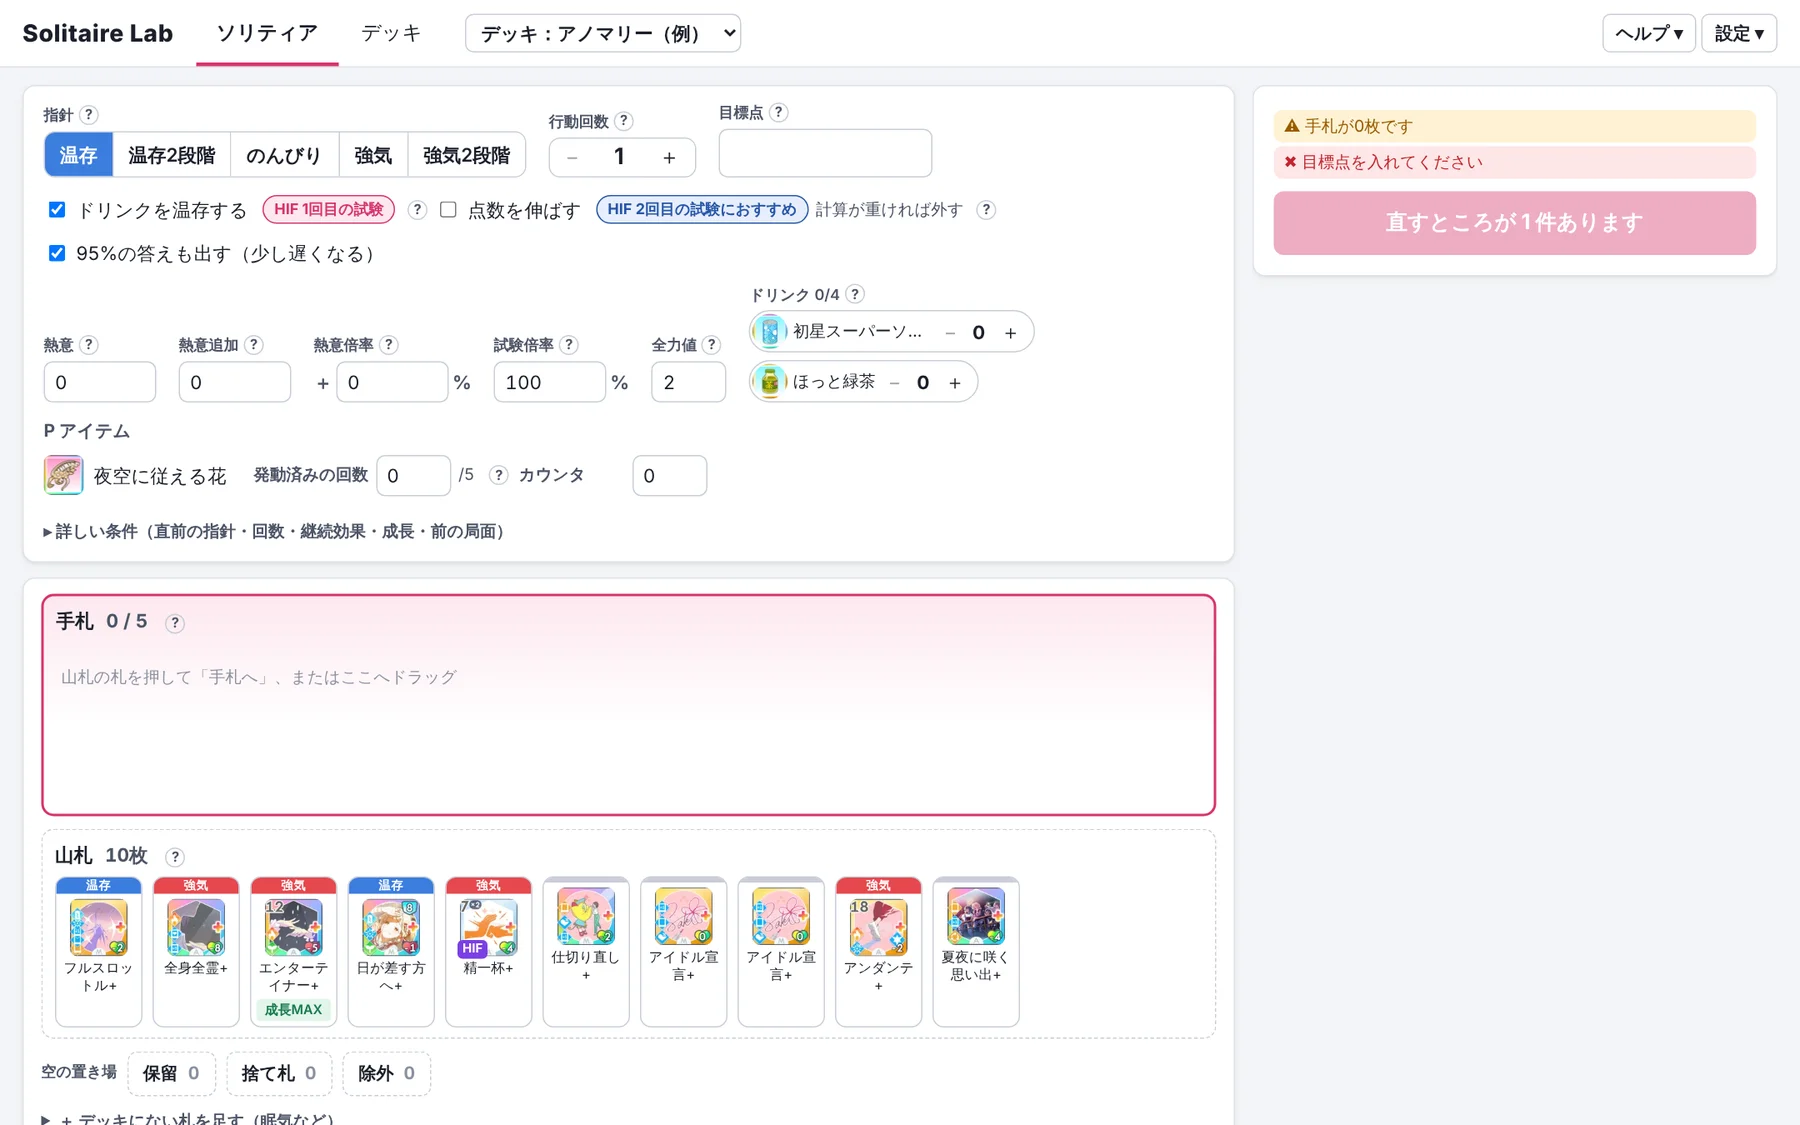
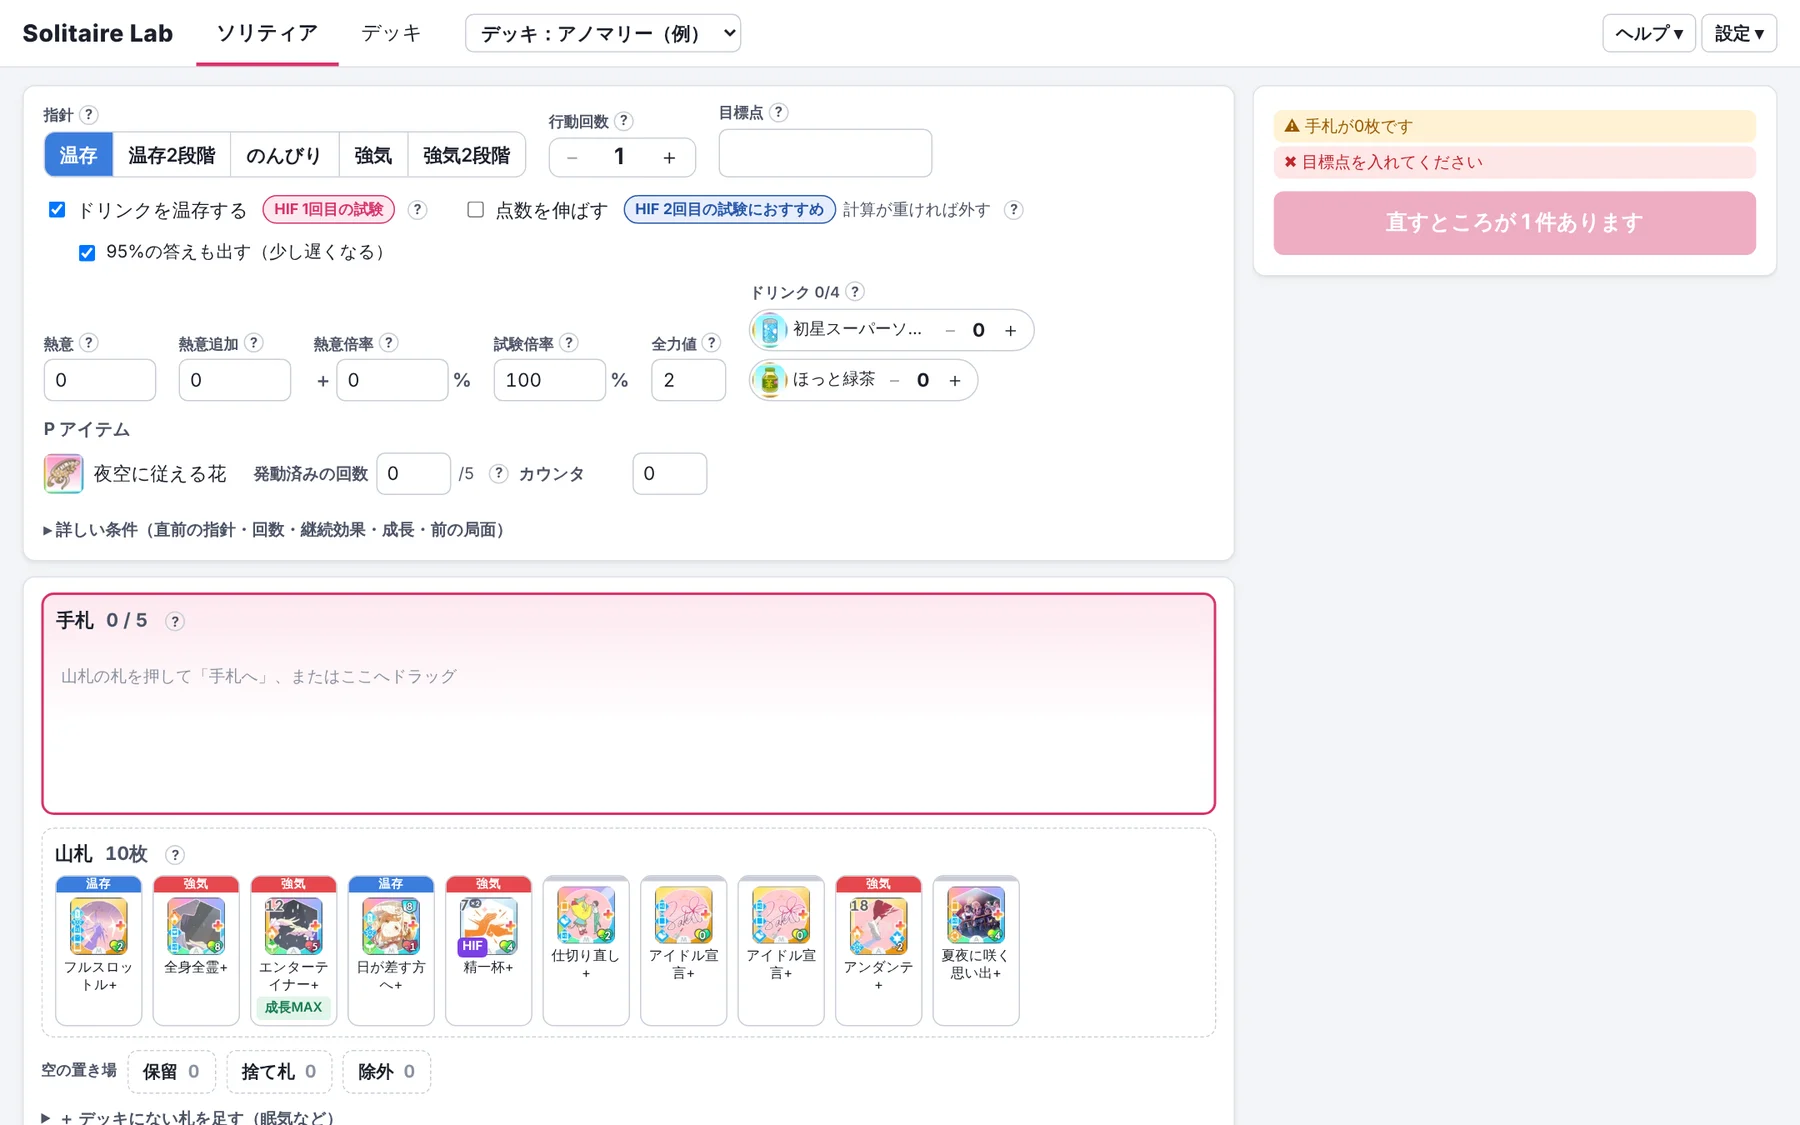
Solitaire Lab 1.14.7

diff --git a/js/turn.js b/js/turn.js
@@ -99,13 +99,11 @@ export function renderTurn(root, rerender) {
       h('div.stances', {}, h('span.sl', '指針', qtip('ゲームの画面の、今の指針。温存・強気の「2段階」は、指針の段階が2のとき')), h('div.seg', {}, STANCES.map(([v, t]) => h('button', {class: 'st ' + v + (p.stance === v ? ' on' : ''), onclick: () => setp('stance')(v)}, t)))),
       stepper('行動回数', 'cardUses', {min: 1, max: 20, tip: 'このターンに、まだ札を使える回数（ゲームの画面のスキルカード使用数）'}),
       field('目標点', 'target', {width: 9, cls: 'big', tip: 'このターンで届かせたい点数。プレイの途中から作った局面では、それまでに入った点を引いた値'})),
-    // ドリンクを温存する（HIF の1回目の試験）。既定は温存しない（届く確率 → 手数）。1.11.0、利用者の決定
-    h('div.lastexam', {}, h('label.f', {}, h('input', {type: 'checkbox', checked: !!p.saveDrinks && !p.beyondGoal, onchange: e => { p.saveDrinks = e.target.checked; if (e.target.checked) p.beyondGoal = false; touch(); }}), 'ドリンクを温存する', h('span.hiftag', 'HIF 1回目の試験')),
-      qtip('HIF（試験が2回続くシナリオ）の1回目で、2回目のためにドリンクを残したいときに入れます。入れると、届く確率 → ドリンク → 手数 の順で比べ、ドリンクを少なく使う手を選びます。ほかのシナリオ・HIF の2回目では入れなくてかまいません（ドリンクは比べず、届く確率 → 手数 の順）'),
-      // 点数を伸ばす（1.12.0、利用者の決定。1.14.6 で試作・未検証の印を外した＝利用者の決定）：目標点に届いた後も、点の平均が高い手を選ぶ。温存とは同時に使わない
-      h('label.f.beyond', {}, h('input', {type: 'checkbox', checked: !!p.beyondGoal, onchange: e => { p.beyondGoal = e.target.checked; if (e.target.checked) p.saveDrinks = false; touch(); }}), '点数を伸ばす', h('span.hiftag.t2', 'HIF 2回目の試験におすすめ')), h('small.hint', '計算が重ければ外す'),
-      qtip('HIF の2回目の試験におすすめです。計算が重い（時間がかかる・答えが出にくい）ときは外してください。入れると、届く確率を一番に、同じなら目標点に届いた先も含めた点の平均（期待最終点）が高い手を選びます。目標点に届いた後も手を続けます。ドリンク・手数は比べません。続きからの計算・途中からの即答・95%の答えはありません'),
-      p.saveDrinks && !p.beyondGoal && h('label.f.both', {}, h('input', {type: 'checkbox', checked: S.settings.both !== false, onchange: e => { S.settings.both = e.target.checked; touch(); }}), '95%の答えも出す（少し遅くなる）')),
+    // 目標点の下のチェック：左に「ドリンクを温存する」（その下に「95%の答えも出す」）、右に「点数を伸ばす」（1.14.7、利用者の要望で 95% を温存の下へ）
+    h('div.lastexam', {},
+      h('div.opt', {}, h('div.optrow', {}, h('label.f', {}, h('input', {type: 'checkbox', checked: !!p.saveDrinks && !p.beyondGoal, onchange: e => { p.saveDrinks = e.target.checked; if (e.target.checked) p.beyondGoal = false; touch(); }}), 'ドリンクを温存する', h('span.hiftag', 'HIF 1回目の試験')), qtip('HIF（試験が2回続くシナリオ）の1回目で、2回目のためにドリンクを残したいときに入れます。入れると、届く確率 → ドリンク → 手数 の順で比べ、ドリンクを少なく使う手を選びます。ほかのシナリオ・HIF の2回目では入れなくてかまいません（ドリンクは比べず、届く確率 → 手数 の順）')),
+        p.saveDrinks && !p.beyondGoal && h('label.f.both', {}, h('input', {type: 'checkbox', checked: S.settings.both !== false, onchange: e => { S.settings.both = e.target.checked; touch(); }}), '95%の答えも出す（少し遅くなる）')),
+      h('div.opt', {}, h('div.optrow', {}, h('label.f.beyond', {}, h('input', {type: 'checkbox', checked: !!p.beyondGoal, onchange: e => { p.beyondGoal = e.target.checked; if (e.target.checked) p.saveDrinks = false; touch(); }}), '点数を伸ばす', h('span.hiftag.t2', 'HIF 2回目の試験におすすめ')), h('small.hint', '計算が重ければ外す'), qtip('HIF の2回目の試験におすすめです。計算が重い（時間がかかる・答えが出にくい）ときは外してください。入れると、届く確率を一番に、同じなら目標点に届いた先も含めた点の平均（期待最終点）が高い手を選びます。目標点に届いた後も手を続けます。ドリンク・手数は比べません。続きからの計算・途中からの即答・95%の答えはありません')))),
     h('div.hudrow', {},
       field('熱意', 'enthusiasm', {tip: 'ゲームの画面の、今の熱意の値'}), field('熱意追加', 'enthusiasmBonus', {tip: 'ゲームの画面の、熱意追加の値'}),
       field('熱意倍率', 'enthusiasmBuff', {step: 10, plus: true, tip: 'ゲームの表示の「＋何%」をそのまま入れる（P アイテムなどで上がった分も含む）'}),

diff --git a/style.css b/style.css
@@ -316,7 +316,10 @@ button.sec:hover:not(:disabled) { background: var(--acc2); }
 /* 答えの見出しの小さな印（即答・前の計算を使用 など） */
 .tags { display: flex; flex-wrap: wrap; gap: 6px; margin: 4px 0 6px; }
 .tag { font-size: 12px; padding: 2px 8px; border-radius: 999px; background: var(--infobg); color: var(--info); cursor: help; }
-.lastexam { display: flex; flex-wrap: wrap; align-items: center; gap: 4px 6px; margin: 2px 0 8px; }
+.lastexam { display: flex; flex-wrap: wrap; align-items: flex-start; gap: 4px 28px; margin: 2px 0 8px; }
+.lastexam .opt { display: flex; flex-direction: column; gap: 4px; }
+.lastexam .optrow { display: flex; flex-wrap: wrap; align-items: center; gap: 4px 6px; }
+.lastexam .both { margin-left: 24px; font-size: 14px; }
 
 dialog.restore { border: 1px solid var(--line); border-radius: var(--radius); padding: 16px 18px; width: min(720px, 92vw); background: var(--panel); color: var(--ink); box-shadow: var(--shadow); }
 dialog.restore::backdrop { background: rgba(0,0,0,.35); }

diff --git a/manual/index.html b/manual/index.html
@@ -51,7 +51,7 @@
 <section class="slide cover">
   <h1>Solitaire Lab 詳細マニュアル</h1>
   <div class="sub">学園アイドルマスターの「ソリティア」で、<br>どの順番で札を使えば目標点に届きやすいかを教えてくれるツールです。</div>
-  <div class="ver">版 1.14.6 ・ ← → キー、または画面の左右を押してページをめくります</div>
+  <div class="ver">版 1.14.7 ・ ← → キー、または画面の左右を押してページをめくります</div>
 </section>
 
 <section class="slide">

diff --git a/manual/summary.html b/manual/summary.html
@@ -52,7 +52,7 @@
 <section class="slide cover">
   <h1>Solitaire Lab</h1>
   <div class="sub">学園アイドルマスターの「ソリティア」で、<br>どの順番で札を使えば目標点に届きやすいかを教えてくれるツールです。</div>
-  <div class="ver">概要 ・ 版 1.14.6 ・ くわしい使い方は「詳細マニュアル」をご覧ください</div>
+  <div class="ver">概要 ・ 版 1.14.7 ・ くわしい使い方は「詳細マニュアル」をご覧ください</div>
 </section>
 
 <section class="slide">
